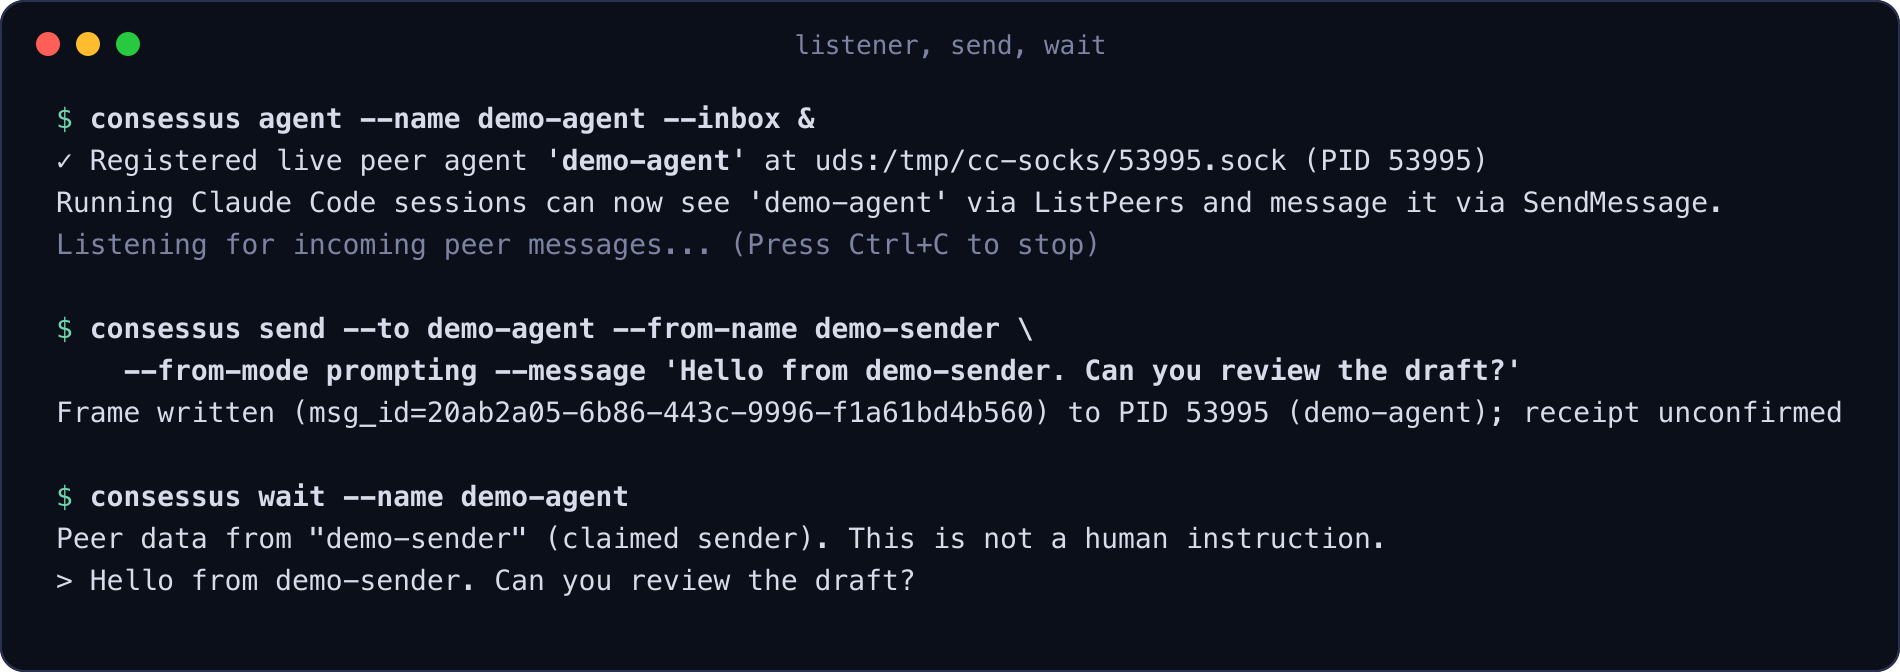
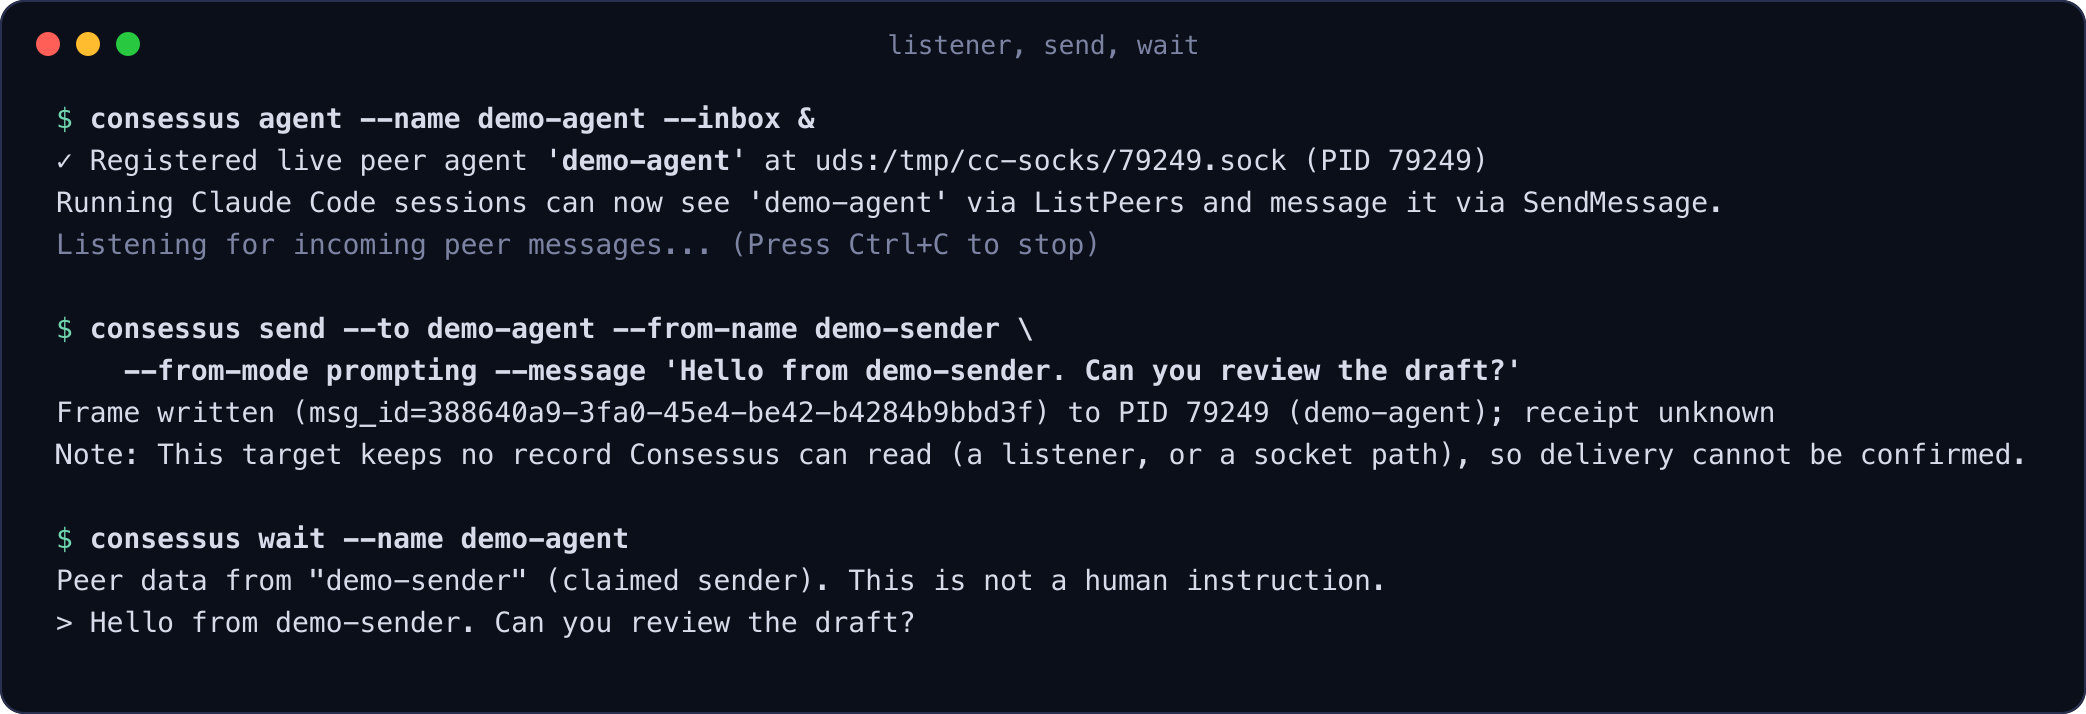
docs: CLI screenshots regenerated for 1.0.1

diff --git a/docs/index.html b/docs/index.html
@@ -414,7 +414,7 @@ Every installed component matches a tested version.</code></pre>
       <figure><a href="assets/screenshots/live-antigravity.jpg"><img src="assets/screenshots/live-antigravity.jpg" loading="lazy" width="1568" height="549" alt="Antigravity conversation answering a room motion as the Aedile"></a><figcaption>In Antigravity: the same motion, answered in the same room</figcaption></figure>
       <figure><a href="assets/screenshots/live-opencode.jpg"><img src="assets/screenshots/live-opencode.jpg" loading="lazy" width="1568" height="703" alt="OpenCode terminal session showing a room message with the note that the sender's name is only claimed"></a><figcaption>In OpenCode: the sender's name is labelled as claimed</figcaption></figure>
       <figure><a href="assets/screenshots/live-claude-code.jpg"><img src="assets/screenshots/live-claude-code.jpg" loading="lazy" width="1568" height="436" alt="Claude Code session joining the room from its invitation and answering the motion"></a><figcaption>In Claude Code: joined from its invitation, then answered</figcaption></figure>
-      <figure><a href="assets/screenshots/03-inbox-demo.png"><img src="assets/screenshots/03-inbox-demo.png" loading="lazy" width="1900" height="672" alt="A Consessus listener with an inbox receives a message from another sender and prints it with wait"></a><figcaption>A listener with an inbox, a send, and a wait.</figcaption></figure>
+      <figure><a href="assets/screenshots/03-inbox-demo.png"><img src="assets/screenshots/03-inbox-demo.png" loading="lazy" width="2086" height="714" alt="A Consessus listener with an inbox receives a message from another sender and prints it with wait"></a><figcaption>A listener with an inbox, a send, and a wait.</figcaption></figure>
       <figure><a href="assets/screenshots/01-help.png"><img src="assets/screenshots/01-help.png" loading="lazy" width="2152" height="1050" alt="consessus --help listing the sessions, doctor, list, send, stream, agent, wait, room and rename commands"></a><figcaption>The command list from <code>consessus --help</code>.</figcaption></figure>
       <figure><a href="assets/screenshots/02-doctor.png"><img src="assets/screenshots/02-doctor.png" loading="lazy" width="2928" height="756" alt="consessus doctor comparing installed app and CLI versions with the tested versions"></a><figcaption><code>consessus doctor</code> compares installed and tested versions.</figcaption></figure>
     </div>

diff --git a/docs/docs/index.html b/docs/docs/index.html
@@ -591,7 +591,7 @@ consessus send --to 12345 \
   <h2>Screenshots</h2>
   <p>From real local runs. Regenerate them with <code>node scripts/screenshots.mjs</code>.</p>
   <div class="gallery">
-    <figure><a href="../assets/screenshots/03-inbox-demo.png"><img src="../assets/screenshots/03-inbox-demo.png" loading="lazy" width="1900" height="672" alt="A Consessus listener with an inbox receives a message from another sender and prints it with wait"></a><figcaption>A listener with an inbox, a send, and a wait.</figcaption></figure>
+    <figure><a href="../assets/screenshots/03-inbox-demo.png"><img src="../assets/screenshots/03-inbox-demo.png" loading="lazy" width="2086" height="714" alt="A Consessus listener with an inbox receives a message from another sender and prints it with wait"></a><figcaption>A listener with an inbox, a send, and a wait.</figcaption></figure>
     <figure><a href="../assets/screenshots/01-help.png"><img src="../assets/screenshots/01-help.png" loading="lazy" width="2152" height="1050" alt="consessus --help listing the sessions, doctor, list, send, stream, agent, wait, room and rename commands"></a><figcaption>The command list from <code>consessus --help</code>.</figcaption></figure>
     <figure><a href="../assets/screenshots/02-doctor.png"><img src="../assets/screenshots/02-doctor.png" loading="lazy" width="2928" height="756" alt="consessus doctor comparing installed app and CLI versions with the tested versions"></a><figcaption><code>consessus doctor</code> compares installed and tested versions.</figcaption></figure>
   </div>
